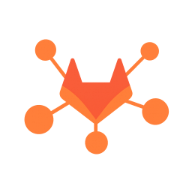
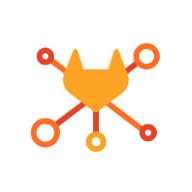
feat(docs): fufill branding request

Changed region(s): [[0.125, 0.1875, 0.9062, 0.8125]]

diff --git a/packages/docs/src/styles/global.css b/packages/docs/src/styles/global.css
@@ -7,11 +7,11 @@
 /* https://starlight.astro.build/guides/customization */
 
 @theme {
-  /* GitLab-inspired accent color palette using official GitLab Orange (#FC6D26) */
-  --color-accent-200: #fddbc7; /* Very light GitLab orange with transparency */
-  --color-accent-600: #fc6d26; /* Official GitLab Orange */
-  --color-accent-900: #b54a1a; /* Darker GitLab orange */
-  --color-accent-950: #8a3714; /* Darkest GitLab orange */
+  /* GitLab-inspired accent color palette using custom orange (#FCA326) */
+  --color-accent-200: #fde5cc; /* Very light orange with transparency */
+  --color-accent-600: #fca326; /* Custom orange */
+  --color-accent-900: #b87419; /* Darker orange */
+  --color-accent-950: #8a5613; /* Darkest orange */
 
   /* Refined gray color palette for better contrast */
   --color-gray-100: #f6f6f6;
@@ -69,22 +69,16 @@
     text-transform: none !important;
   }
 
-  /* GitLab text with official GitLab orange */
+  /* GitLab text with white color */
   .gitlab-text {
-    background: linear-gradient(135deg, #fc6d26 0%, #e24329 100%) !important;
-    background-clip: text !important;
-    -webkit-background-clip: text !important;
-    -webkit-text-fill-color: transparent !important;
-    color: transparent !important;
+    color: white !important;
     position: relative !important;
     display: inline-block !important;
-    -moz-background-clip: text !important;
-    -moz-text-fill-color: transparent !important;
   }
 
-  /* Knowledge and Graph text with GitLab purple accent */
+  /* Knowledge and Graph text with orange gradient */
   .graph-text {
-    background: linear-gradient(135deg, #6b46c1 0%, #7c3aed 100%) !important;
+    background: linear-gradient(135deg, #fca326 50%, #f59e0b 100%) !important;
     background-clip: text !important;
     -webkit-background-clip: text !important;
     -webkit-text-fill-color: transparent !important;
@@ -120,24 +114,12 @@
 
   /* Dark mode adjustments for better visibility */
   [data-theme="dark"] .gitlab-text {
-    background: linear-gradient(
-      135deg,
-      #fca326 0%,
-      #fc6d26 50%,
-      #e24329 100%
-    ) !important;
-    background-clip: text !important;
-    -webkit-background-clip: text !important;
+    color: white !important;
   }
 
   [data-theme="dark"] .knowledge-text,
   [data-theme="dark"] .graph-text {
-    background: linear-gradient(
-      135deg,
-      #8b5cf6 0%,
-      #a78bfa 50%,
-      #c4b5fd 100%
-    ) !important;
+    background: linear-gradient(135deg, #fca326 50%, #f59e0b 100%) !important;
     background-clip: text !important;
     -webkit-background-clip: text !important;
   }
@@ -145,24 +127,12 @@
   /* Also handle prefers-color-scheme for system dark mode */
   @media (prefers-color-scheme: dark) {
     .gitlab-text {
-      background: linear-gradient(
-        135deg,
-        #fca326 0%,
-        #fc6d26 50%,
-        #e24329 100%
-      ) !important;
-      background-clip: text !important;
-      -webkit-background-clip: text !important;
+      color: white !important;
     }
 
     .knowledge-text,
     .graph-text {
-      background: linear-gradient(
-        135deg,
-        #8b5cf6 0%,
-        #a78bfa 50%,
-        #c4b5fd 100%
-      ) !important;
+      background: linear-gradient(135deg, #fca326 50%, #f59e0b 100%) !important;
       background-clip: text !important;
       -webkit-background-clip: text !important;
     }
@@ -179,22 +149,22 @@
   /* Fallback for browsers that don't support background-clip: text */
   @supports not (-webkit-background-clip: text) {
     .gitlab-text {
-      color: #fc6d26 !important;
+      color: white !important;
     }
     .knowledge-text {
-      color: #6b46c1 !important;
+      color: #f59e0b !important;
     }
     .graph-text {
-      color: #6b46c1 !important;
+      color: #f59e0b !important;
     }
 
     [data-theme="dark"] .gitlab-text {
-      color: #fca326 !important;
+      color: white !important;
     }
 
     [data-theme="dark"] .knowledge-text,
     [data-theme="dark"] .graph-text {
-      color: #a78bfa !important;
+      color: #f59e0b !important;
     }
   }
 
